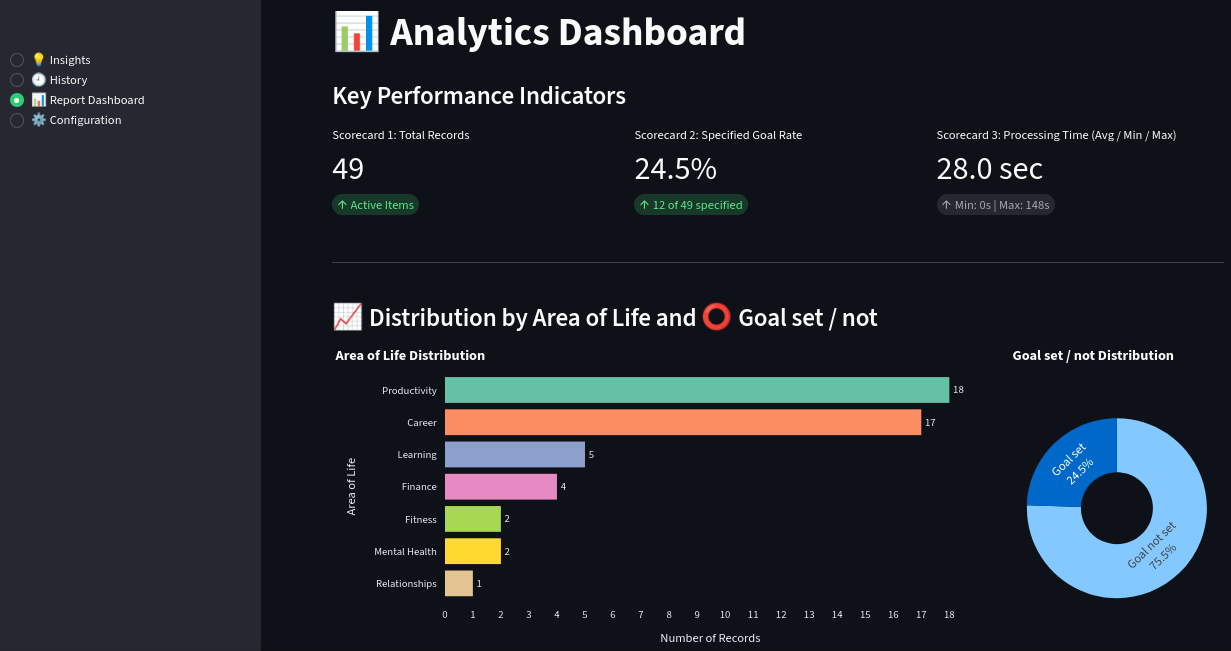
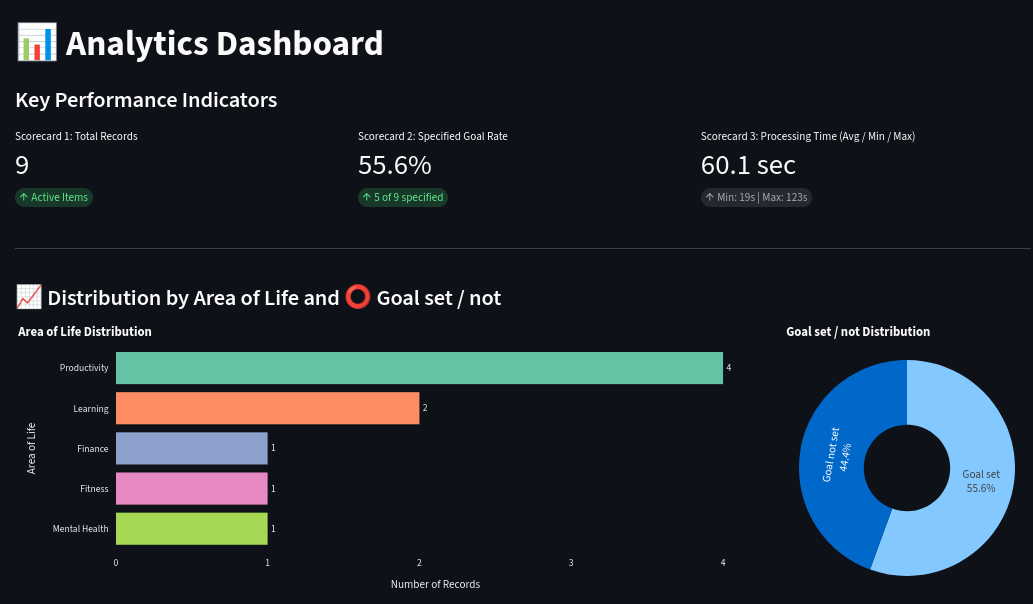
README+Screenshots

diff --git a/README.md b/README.md
@@ -166,12 +166,12 @@ bash run_compose.sh
 
 ![Docker compose 1](screenshots/docker-1.png)
 
-![Docker compose 2](screenshots/docker-1.png)
+![Docker compose 2](screenshots/docker-2.png)
 
 
 Then open http://localhost:8501.
 
-> If you want a single-container build instead, `Dockerfile` is provided (it runs `ollama serve` inside the app container via `entrypoint.sh`). The compose path is preferred because it isolates the model server and survives app rebuilds.
+> Project can be tested in **GitHub CodeSpaces** - the easiest option, and free. Just  **use 4-core - 16GB RAM machine type**. 
 
 ### 🚀 Smoke test
 
@@ -325,7 +325,9 @@ python -m unittest tests/test_llm_config.py
 - **"I get a 404 / model-not-found on the default cloud model."** Cloud providers rotate model names. Check `.env.example` for the current defaults; this README tracks the same values.
 - **"How do I enable the 60-minute video cap?"** Set `VALIDATE_DURATION = True` in `core/settings.py`. The PRD defines the cap; the MVP ships with it off so longer videos can still be processed for testing.
 - **"How do I use a different embedding or reranker model?"** Update `DEFAULT_EMBEDDING_MODEL` / `DEFAULT_RERANKING_MODEL` in `core/settings.py` and re-run `python onnx_download.py`. If the model is gated on the Hugging Face Hub, also set `HF_API_KEY` / `HUGGINGFACE_API_KEY` in `.env`.
-- **"Ollama times out on the first run."** The first request to a freshly-pulled model includes model load time. Increase `OLLAMA_TIMEOUT` (default `300`).
+- **"Ollama times out on the first run."** The first request to a freshly-pulled model includes model load time. Increase `OLLAMA_TIMEOUT` (default `180`).
+- **"How can I get free OpenRouter API access?"** Go to openrouter.ai. Sign up and create your account using your email, GitHub, or Google account. Get a free API key at https://openrouter.ai/keys.
+- **"I'm getting `(title not extracted) TrvLEgPpV8s` instead of title."** YouTube is changing API used to extract video data, and blocking IPs known to belong to cloud providers as they run similar apps scraping their video data. Try running the app locally. Use several cached transcripts and provided history.json to test application.
 
 ---
 
